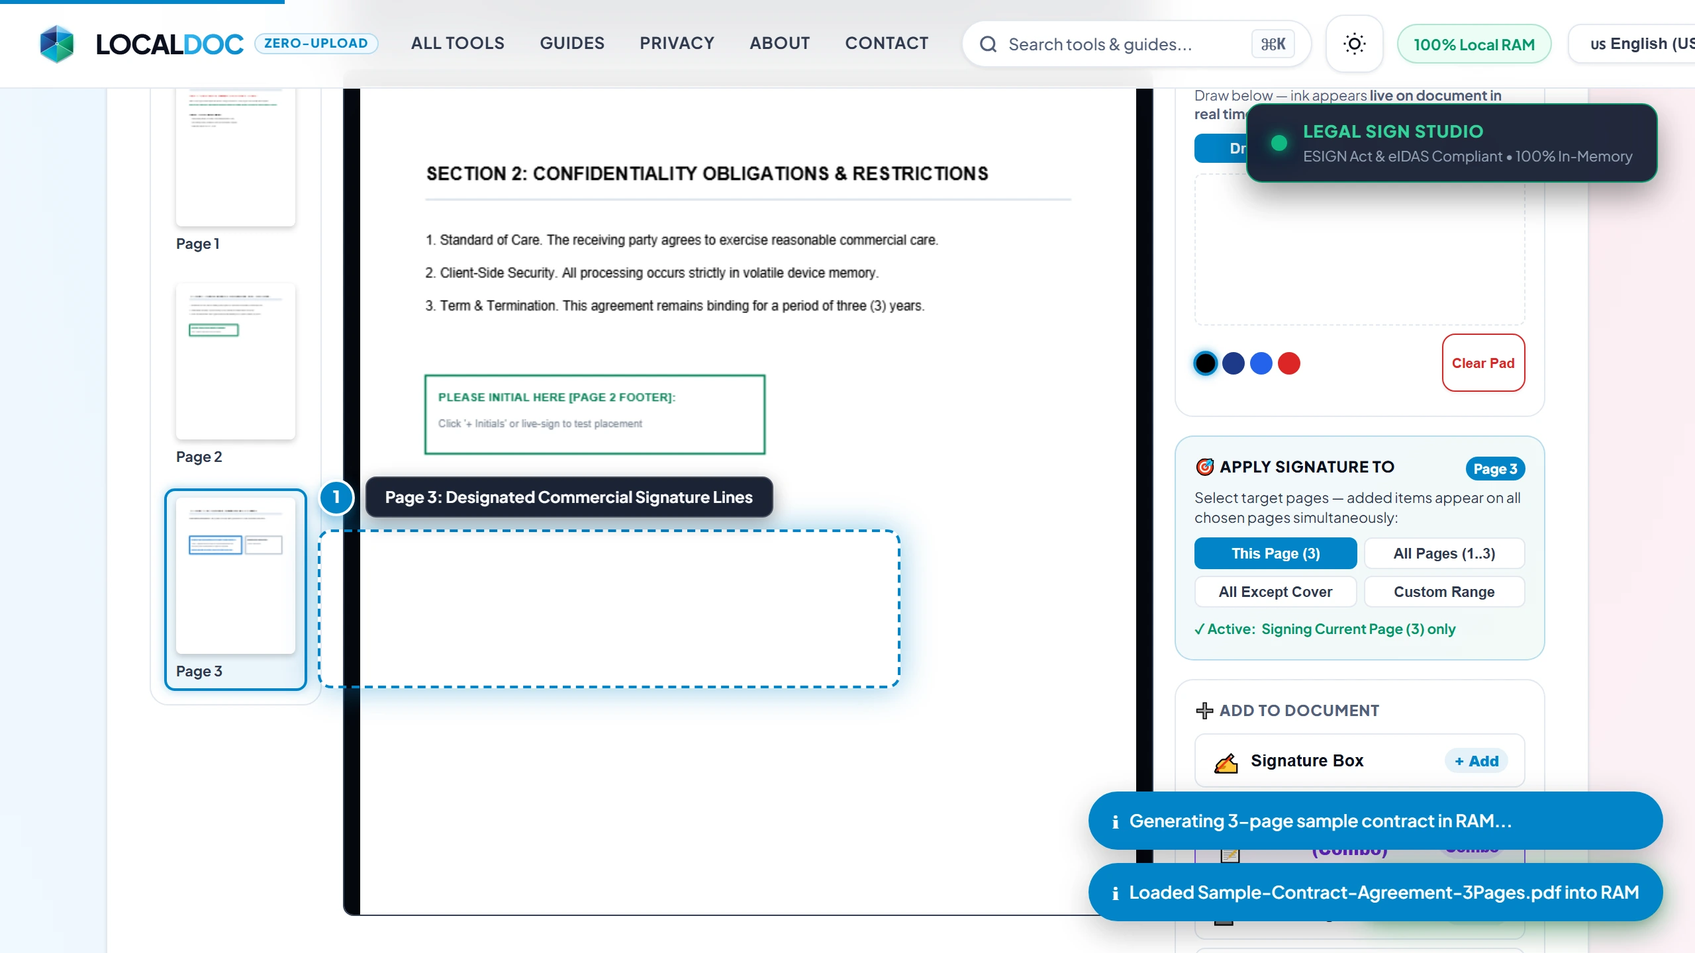
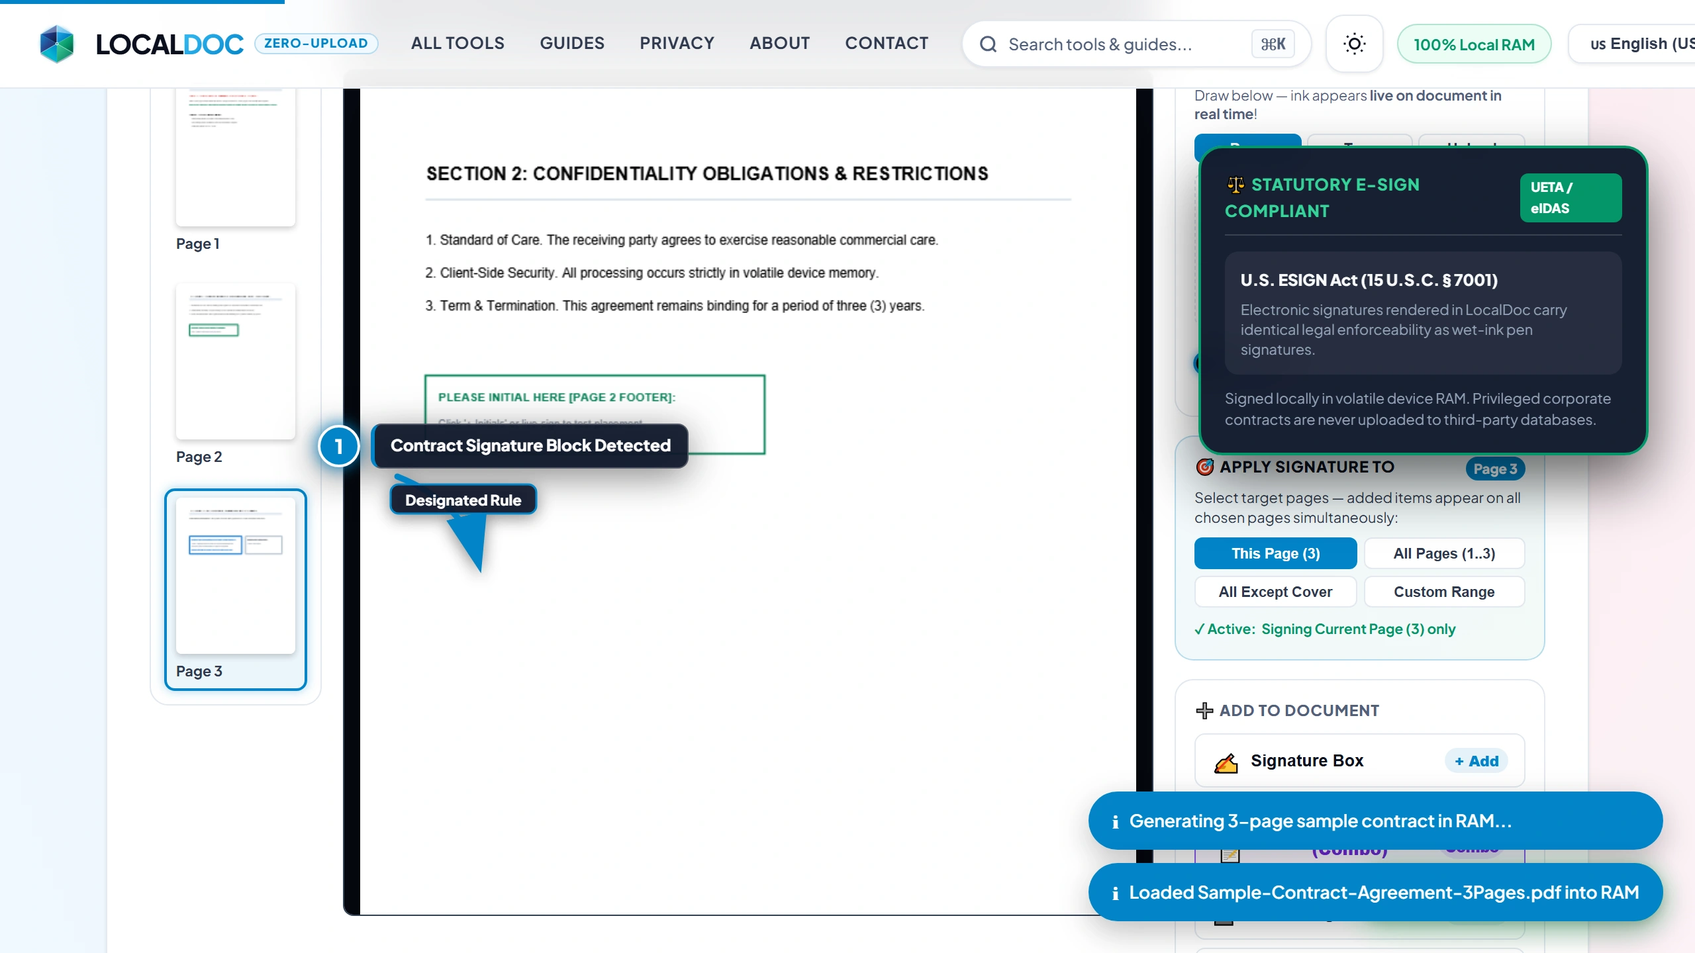
feat(guides): complete overhaul of edit and sign pdf guides with embedded vector arrows, picture-in-picture insets, and decoupled blog directory cards

diff --git a/blog/sign-pdf-guide.html b/blog/sign-pdf-guide.html
@@ -511,17 +511,8 @@
           Navigate to the <a href="../pages/sign-pdf.html" style="color:var(--primary); font-weight:700;">Sign PDF Studio</a>. Drag and drop your PDF agreement into the upload zone, or click <em>&ldquo;Select PDF Document&rdquo;</em> to browse files on your device. Your file is parsed page-by-page entirely in your browser&rsquo;s local RAM &mdash; zero bytes are ever uploaded to cloud servers.
         </p>
 
-        <div class="annotated-viewport">
-          <img src="../assets/images/guides/sign-step1-upload.webp" alt="LocalDoc In-Memory Drag and Drop PDF Upload Zone" loading="lazy" width="1280" height="720">
-          
-          <!-- Callout 1: Select Button -->
-          <div class="annotation-box pulse-blue" style="top: 54%; left: 34%; width: 32%; height: 16%;">
-            <span class="annotation-pin pin-blue">1</span>
-            <div class="annotation-tooltip tooltip-bottom">
-              <strong>Select or Drop PDF</strong>
-              <span>100% In-Memory RAM Sandbox &bull; Zero Server Upload</span>
-            </div>
-          </div>
+        <div class="walkthrough-visual-frame" style="position:relative; border-radius:14px; overflow:hidden; border:1px solid var(--line); box-shadow:0 12px 32px rgba(0,0,0,0.12); margin:18px 0;">
+          <img src="../assets/images/guides/sign-step1-upload.webp" alt="Step 1: Open Contract in LocalDoc Client RAM Sandbox with Statutory E-Sign Compliance Certificate" loading="lazy" width="1280" height="720" style="display:block; width:100%; height:auto;">
         </div>
 
         <div class="walkthrough-step-tip">
@@ -544,26 +535,8 @@
           Choose your signing method between <strong>Draw Freehand</strong> (smooth Bézier splines using stylus, mouse, or touch gesture), <strong>Type Cursive</strong> (converts your typed name into elegant legal script), or <strong>Upload Image</strong> (import a photo of your paper signature with automatic white-paper background removal). Select your preferred ink tone &mdash; <strong>Classic Navy Blue</strong> is strongly recommended for legal contracts &mdash; and dial in your stroke weight with the precision slider bar.
         </p>
 
-        <div class="annotated-viewport">
-          <img src="../assets/images/guides/sign-step2-signature-pad.webp" alt="Signature Creation Studio with Draw, Type, and Upload Tabs, Ink Palette, and Thickness Slider" loading="lazy" width="1280" height="720">
-          
-          <!-- Callout 1: Navy Blue Swatch -->
-          <div class="annotation-box pulse-red" style="top: 80%; left: 11%; width: 14%; height: 12%;">
-            <span class="annotation-pin pin-red">1</span>
-            <div class="annotation-tooltip tooltip-top">
-              <strong>Select Classic Navy Blue</strong>
-              <span>Proves non-photocopied original execution in court</span>
-            </div>
-          </div>
-
-          <!-- Callout 2: Thickness Slider -->
-          <div class="annotation-box pulse-blue" style="top: 60%; left: 6%; width: 44%; height: 16%;">
-            <span class="annotation-pin pin-blue">2</span>
-            <div class="annotation-tooltip tooltip-top">
-              <strong>Calibrate 3.0 px Pen Weight</strong>
-              <span>Matches natural optical density of ballpoint pens</span>
-            </div>
-          </div>
+        <div class="walkthrough-visual-frame" style="position:relative; border-radius:14px; overflow:hidden; border:1px solid var(--line); box-shadow:0 12px 32px rgba(0,0,0,0.12); margin:18px 0;">
+          <img src="../assets/images/guides/sign-step2-signature-pad.webp" alt="Step 2: 3-Mode Signature Creation Studio with Bézier Curve Smoothing and Paper Background Removal Inset" loading="lazy" width="1280" height="720" style="display:block; width:100%; height:auto;">
         </div>
 
         <div class="walkthrough-step-tip">
@@ -586,17 +559,8 @@
           Click and drag the signature bounding box across the live document viewport to position it exactly over the contract&rsquo;s designated signature line. Use the interactive <strong><code>+</code></strong> and <strong><code>&minus;</code></strong> corner scaling handles to scale the signature proportionally without any awkward stretching.
         </p>
 
-        <div class="annotated-viewport">
-          <img src="../assets/images/guides/sign-step3-drag-position.webp" alt="Live Document Preview with Draggable Signature Bounding Box and Corner Scale Handles" loading="lazy" width="1280" height="720">
-          
-          <!-- Callout 1: Active Bounding Box -->
-          <div class="annotation-box pulse-red" style="top: 55%; left: 19%; width: 25%; height: 18%;">
-            <span class="annotation-pin pin-red">1</span>
-            <div class="annotation-tooltip tooltip-top">
-              <strong>Drag to Signature Line</strong>
-              <span>Smooth 60 FPS positioning with + / &minus; scale handles</span>
-            </div>
-          </div>
+        <div class="walkthrough-visual-frame" style="position:relative; border-radius:14px; overflow:hidden; border:1px solid var(--line); box-shadow:0 12px 32px rgba(0,0,0,0.12); margin:18px 0;">
+          <img src="../assets/images/guides/sign-step3-drag-position.webp" alt="Step 3: Signature Bounding Box Positioning with Micro-Magnifier Baseline Snapping Lens" loading="lazy" width="1280" height="720" style="display:block; width:100%; height:auto;">
         </div>
 
         <div class="walkthrough-step-tip">
@@ -619,35 +583,8 @@
           Click <em>&ldquo;+ Company Stamp&rdquo;</em> in the toolbar to launch the interactive Rubber Stamp Studio. Choose between an authentic <strong>Circular Corporate Seal</strong> (with curved text along the upper and lower perimeter arcs, central star emblem, registration ID, and date) or a <strong>Rectangular Audit Stamp</strong> in official legal ink colors (Navy Blue, Corporate Red, Emerald Green, Slate Black, Royal Purple). Click <em>&ldquo;+ Add Date Seal&rdquo;</em> to attach a certified execution timestamp (<code>✓ Date: 2026-10-22</code>) alongside your signature.
         </p>
 
-        <div class="annotated-viewport">
-          <img src="../assets/images/guides/sign-step4-date-seal.webp" alt="Contract Signature Block with Draggable Certified Date Stamp, Signatory Title, and Company Corporate Seal" loading="lazy" width="1280" height="720">
-          
-          <!-- Callout 1: Date Stamp -->
-          <div class="annotation-box pulse-emerald" style="top: 58%; left: 59%; width: 23%; height: 14%;">
-            <span class="annotation-pin pin-emerald">1</span>
-            <div class="annotation-tooltip tooltip-top">
-              <strong>Certified Date Stamp</strong>
-              <span>Standard ISO 8601 execution timestamp</span>
-            </div>
-          </div>
-
-          <!-- Callout 2: Signatory Title -->
-          <div class="annotation-box pulse-blue" style="top: 72%; left: 18%; width: 23%; height: 11%;">
-            <span class="annotation-pin pin-blue">2</span>
-            <div class="annotation-tooltip tooltip-bottom">
-              <strong>Signatory Title Text Box</strong>
-              <span>State corporate capacity or printed name</span>
-            </div>
-          </div>
-
-          <!-- Callout 3: Company Rubber Seal -->
-          <div class="annotation-box pulse-red" style="top: 25%; left: 62%; width: 22%; height: 28%;">
-            <span class="annotation-pin pin-red">3</span>
-            <div class="annotation-tooltip tooltip-left">
-              <strong>Company Rubber Stamp</strong>
-              <span>Circular seal or audit stamp in legal ink</span>
-            </div>
-          </div>
+        <div class="walkthrough-visual-frame" style="position:relative; border-radius:14px; overflow:hidden; border:1px solid var(--line); box-shadow:0 12px 32px rgba(0,0,0,0.12); margin:18px 0;">
+          <img src="../assets/images/guides/sign-step4-date-seal.webp" alt="Step 4: Interactive Corporate Rubber Stamp Customizer and Certified Date Stamp with Circular Seal Inset" loading="lazy" width="1280" height="720" style="display:block; width:100%; height:auto;">
         </div>
 
         <div class="walkthrough-step-tip">
@@ -670,17 +607,8 @@
           Click the emerald button <strong>&ldquo;Apply Signature &amp; Download Signed PDF&rdquo;</strong>. LocalDoc&rsquo;s WebAssembly engine compiles your vector splines, date seals, and text overlays directly into the PDF&rsquo;s ISO 32000 content stream, triggering an instant download to your device with zero server queues or watermarks.
         </p>
 
-        <div class="annotated-viewport">
-          <img src="../assets/images/guides/sign-step5-download.webp" alt="3-Step Workflow Indicator and Final Download Success Card" loading="lazy" width="1280" height="720">
-          
-          <!-- Callout 1: Download Button -->
-          <div class="annotation-box pulse-emerald" style="top: 55%; left: 58%; width: 26%; height: 24%;">
-            <span class="annotation-pin pin-emerald">1</span>
-            <div class="annotation-tooltip tooltip-top">
-              <strong>Instant Vector Download</strong>
-              <span>100% In-Memory Compilation &bull; Zero Watermarks</span>
-            </div>
-          </div>
+        <div class="walkthrough-visual-frame" style="position:relative; border-radius:14px; overflow:hidden; border:1px solid var(--line); box-shadow:0 12px 32px rgba(0,0,0,0.12); margin:18px 0;">
+          <img src="../assets/images/guides/sign-step5-download.webp" alt="Step 5: Finalized Contract Download with Digital Audit Trail Certificate Inset" loading="lazy" width="1280" height="720" style="display:block; width:100%; height:auto;">
         </div>
 
         <div class="walkthrough-step-tip">

diff --git a/blog/edit-pdf-text-guide.html b/blog/edit-pdf-text-guide.html
@@ -610,14 +610,8 @@
           <p class="walkthrough-step-desc">
             Open the <a href="../pages/edit-pdf.html">LocalDoc Edit PDF Studio</a>. Drag your contract, lease, or report into the dropzone. The file decodes page-by-page directly into memory and renders at native 100% canvas resolution in 410 milliseconds with zero network transmission.
           </p>
-          <div class="walkthrough-visual-frame">
-            <img src="../assets/images/guides/editpdf-step1-load-document-ram.webp" alt="Load multi-page contract into LocalDoc in-browser PDF editor" width="1280" height="720" loading="lazy">
-            <div class="walkthrough-focus-box pulse-blue" style="top:22%; left:18%; width:64%; height:62%;" aria-hidden="true"></div>
-            <div class="walkthrough-pin" style="top:26%; left:62%;">❶ Select PDF Document</div>
-            <div class="walkthrough-pin" style="top:65%; left:36%;">❷ 16 Lease Pages in RAM</div>
-            <div class="walkthrough-callout" style="bottom:12px; left:18px;">
-              <span>✦ Memory Mapping: 16 lease pages loaded in 410ms with zero network transmission.</span>
-            </div>
+          <div class="walkthrough-visual-frame" style="position:relative; border-radius:14px; overflow:hidden; border:1px solid var(--line); box-shadow:0 12px 32px rgba(0,0,0,0.12); margin:18px 0;">
+            <img src="../assets/images/guides/editpdf-step1-load-document-ram.webp" alt="Step 1: Load Document into In-Browser Canvas Workspace with Zero Cloud Upload Security Shield" width="1280" height="720" loading="lazy" style="display:block; width:100%; height:auto;">
           </div>
         </div>
 
@@ -630,14 +624,8 @@
           <p class="walkthrough-step-desc">
             Select the <strong>Add Text</strong> tool to click and position an editable text box anywhere on the canvas, or click <strong>Whiteout Patch</strong> to mask outdated figures or names with an occlusion path matching the paper background.
           </p>
-          <div class="walkthrough-visual-frame">
-            <img src="../assets/images/guides/editpdf-step2-select-text-whiteout.webp" alt="Select text injection or whiteout occlusion patch tool" width="1280" height="720" loading="lazy">
-            <div class="walkthrough-focus-box pulse-blue" style="top:26%; left:6%; width:26%; height:16%;" aria-hidden="true"></div>
-            <div class="walkthrough-pin" style="top:30%; left:10%;">❶ Add Text Injection</div>
-            <div class="walkthrough-pin" style="top:44%; left:58%;">❷ Whiteout Masking</div>
-            <div class="walkthrough-callout" style="bottom:12px; left:18px;">
-              <span>✦ Spatial Precision: Absolute coordinate placement via HTML5 Canvas vector overlay.</span>
-            </div>
+          <div class="walkthrough-visual-frame" style="position:relative; border-radius:14px; overflow:hidden; border:1px solid var(--line); box-shadow:0 12px 32px rgba(0,0,0,0.12); margin:18px 0;">
+            <img src="../assets/images/guides/editpdf-step2-select-text-whiteout.webp" alt="Step 2: Vector Whiteout Occlusion Patch and In-Place Text Replacement with Before and After Comparison Inset" width="1280" height="720" loading="lazy" style="display:block; width:100%; height:auto;">
           </div>
         </div>
 
@@ -650,14 +638,8 @@
           <p class="walkthrough-step-desc">
             Select font family (Helvetica, Times Roman, or Courier Monospace), point size, and ink color (e.g. <code>#1E293B</code> charcoal) to blend new text indistinguishably into the original document content stream.
           </p>
-          <div class="walkthrough-visual-frame">
-            <img src="../assets/images/guides/editpdf-step3-customize-typography.webp" alt="Match original document typography font family and point size" width="1280" height="720" loading="lazy">
-            <div class="walkthrough-focus-box pulse-amber" style="top:22%; left:6%; width:44%; height:16%;" aria-hidden="true"></div>
-            <div class="walkthrough-pin" style="top:26%; left:12%;">❶ Matched Helvetica 12pt</div>
-            <div class="walkthrough-pin" style="top:44%; left:64%;">❷ SubsetFont Embedding</div>
-            <div class="walkthrough-callout" style="bottom:12px; left:18px;">
-              <span>✦ Font Matching: Lightweight TrueType subsets embedded directly to avoid rendering flaws.</span>
-            </div>
+          <div class="walkthrough-visual-frame" style="position:relative; border-radius:14px; overflow:hidden; border:1px solid var(--line); box-shadow:0 12px 32px rgba(0,0,0,0.12); margin:18px 0;">
+            <img src="../assets/images/guides/editpdf-step3-customize-typography.webp" alt="Step 3: Typography Inspector and TrueType SubsetFont Embedding with 300% Magnified Baseline Grid Inset" width="1280" height="720" loading="lazy" style="display:block; width:100%; height:auto;">
           </div>
         </div>
 
@@ -670,14 +652,8 @@
           <p class="walkthrough-step-desc">
             Choose from 12 pre-styled audit stickers (e.g. <code>APPROVED</code>, <code>CONFIDENTIAL</code>, <code>URGENT</code>), draw single or double-headed directional arrows to call out amendments, or apply semi-transparent clause highlighters to emphasize indemnification terms.
           </p>
-          <div class="walkthrough-visual-frame">
-            <img src="../assets/images/guides/editpdf-step4-stamp-dates-highlights.webp" alt="Insert review stickers, directional arrows and clause highlighters" width="1280" height="720" loading="lazy">
-            <div class="walkthrough-focus-box pulse-emerald" style="top:24%; left:6%; width:44%; height:20%;" aria-hidden="true"></div>
-            <div class="walkthrough-pin" style="top:38%; left:62%;">❶ Review Status Stickers</div>
-            <div class="walkthrough-pin" style="top:74%; left:66%;">❷ Directional Arrows &amp; Highlighters</div>
-            <div class="walkthrough-callout" style="bottom:12px; left:18px;">
-              <span>✦ Visual Review: Stamp audit stickers and draw directional arrows at 60 FPS.</span>
-            </div>
+          <div class="walkthrough-visual-frame" style="position:relative; border-radius:14px; overflow:hidden; border:1px solid var(--line); box-shadow:0 12px 32px rgba(0,0,0,0.12); margin:18px 0;">
+            <img src="../assets/images/guides/editpdf-step4-stamp-dates-highlights.webp" alt="Step 4: Insert 12 Review Status Stickers, Double-Headed Directional Arrows, and Fluorescent Clause Highlighters" width="1280" height="720" loading="lazy" style="display:block; width:100%; height:auto;">
           </div>
         </div>
 
@@ -690,14 +666,8 @@
           <p class="walkthrough-step-desc">
             Optionally trim excess scanner margins using the <strong>Crop Pages</strong> tool (with presets for 5mm, 10mm, 20mm, A4 fit, or custom margins). Click <strong>Save &amp; Export</strong> to compile all vector overlays into an ISO 32000-compliant PDF and trigger an immediate download.
           </p>
-          <div class="walkthrough-visual-frame">
-            <img src="../assets/images/guides/editpdf-step5-export-download-pdf.webp" alt="Download finalized edited PDF document with instant execution metrics" width="1280" height="720" loading="lazy">
-            <div class="walkthrough-focus-box pulse-emerald" style="top:20%; left:22%; width:56%; height:62%;" aria-hidden="true"></div>
-            <div class="walkthrough-pin" style="top:26%; left:62%;">❶ 19 Vector Objects Baked</div>
-            <div class="walkthrough-pin" style="top:64%; left:36%;">❷ Download Edited PDF</div>
-            <div class="walkthrough-callout" style="bottom:12px; left:18px;">
-              <span>✦ Zero Cloud Exposure: Pristine document compiled and downloaded in 410 milliseconds.</span>
-            </div>
+          <div class="walkthrough-visual-frame" style="position:relative; border-radius:14px; overflow:hidden; border:1px solid var(--line); box-shadow:0 12px 32px rgba(0,0,0,0.12); margin:18px 0;">
+            <img src="../assets/images/guides/editpdf-step5-export-download-pdf.webp" alt="Step 5: Lossless /CropBox Coordinate Trimming and Instant PDF Export in 410 Milliseconds" width="1280" height="720" loading="lazy" style="display:block; width:100%; height:auto;">
           </div>
         </div>
       </div>

diff --git a/blog/index.html b/blog/index.html
@@ -378,15 +378,6 @@
         <div style="margin-top:10px; font-size:0.78rem; color:var(--text-muted);">8 min read &bull; Compliance & Legal</div>
       </a>
 
-            <!-- 5b. How to Add Signature to PDF Online Guide -->
-      <a href="sign-pdf-guide.html" class="tool-card" data-cat="security" data-keywords="add signature add signature to pdf sign pdf electronically move signature online draw signature certified date stamp esign eidas contracts lease">
-        <img src="../assets/icons/edit-pdf.svg" alt="Add Signature to PDF Guide" class="tool-card-icon" width="40" height="40" loading="lazy" decoding="async">
-        <div class="tool-card-badge" style="background:#059669; color:#FFF;">Digital Signatures</div>
-        <h3>How to Add Signature to PDF: Draw, Place &amp; Move Signatures</h3>
-        <p>Draw or type signatures, preview document pages, drag and move your signature to any exact spot, and embed certified date stamps in browser RAM.</p>
-        <div style="margin-top:10px; font-size:0.78rem; color:var(--text-muted);">8 min read &bull; Digital Signatures &amp; Legal</div>
-      </a>
-
       <!-- 6. Paperless Office Productivity -->
       <a href="paperless-office-productivity-guide.html" class="tool-card" data-cat="organize" data-keywords="paperless office productivity workflow digitization invoices receipts student study notes archiving">
         <img src="../assets/icons/compress-pdf.svg" alt="Paperless Office Guide" class="tool-card-icon" width="40" height="40" loading="lazy" decoding="async">
@@ -522,13 +513,22 @@
         <div style="margin-top:10px; font-size:0.78rem; color:var(--text-muted);">4 min read &bull; Page Tools</div>
       </a>
 
-      <!-- 21. Edit PDF Text -->
-      <a href="edit-pdf-text-guide.html" class="tool-card" data-cat="organize" data-keywords="edit pdf add text sign draw annotate fill form modify pdf">
-        <img src="../assets/icons/edit-pdf.svg" alt="Edit PDF Guide" class="tool-card-icon" width="40" height="40" loading="lazy" decoding="async">
-        <div class="tool-card-badge" style="background:#0284C7; color:#FFF;">Annotations</div>
-        <h3>Edit PDF Text, Add Signatures & Draw Freehand</h3>
-        <p>Direct canvas PDF editor: add typography, place checkmarks, draw highlight vectors, and sign forms.</p>
-        <div style="margin-top:10px; font-size:0.78rem; color:var(--text-muted);">6 min read &bull; Form Filling</div>
+      <!-- 21. Edit PDF Studio Master Guide -->
+      <a href="edit-pdf-text-guide.html" class="tool-card" data-cat="organize" data-keywords="edit pdf modify pdf text whiteout annotate pdf crop pdf pages arrows stickers markup">
+        <img src="../assets/icons/edit-pdf.svg" alt="Edit PDF Master Guide" class="tool-card-icon" width="40" height="40" loading="lazy" decoding="async">
+        <div class="tool-card-badge" style="background:#0284C7; color:#FFF;">Annotations &amp; Markup</div>
+        <h3>How to Edit PDF Online: Annotate, Whiteout, Arrows &amp; Crop</h3>
+        <p>Master guide to modifying PDF text with vector whiteout masking, typography matching, directional review arrows, fluorescent highlighters, and lossless page cropping.</p>
+        <div style="margin-top:10px; font-size:0.78rem; color:var(--text-muted);">8 min read &bull; Document Markup</div>
+      </a>
+
+      <!-- 22. Sign PDF Studio Master Guide -->
+      <a href="sign-pdf-guide.html" class="tool-card" data-cat="security" data-keywords="sign pdf esign pdf electronic signature company stamp corporate seal rubber stamp certified date contract">
+        <img src="../assets/icons/sign-pdf.svg" alt="Sign PDF Master Guide" class="tool-card-icon" width="40" height="40" loading="lazy" decoding="async">
+        <div class="tool-card-badge" style="background:#059669; color:#FFF;">E-Sign &amp; Corporate Seals</div>
+        <h3>How to Sign PDF Online: E-Sign, Certified Dates &amp; Rubber Stamps</h3>
+        <p>Complete legal guide to drawing Bézier e-signatures, typing cursive handwriting, generating circular company seals, and embedding certified execution date stamps.</p>
+        <div style="margin-top:10px; font-size:0.78rem; color:var(--text-muted);">9 min read &bull; Contract Execution</div>
       </a>
 
       <!-- 25. Watermark PDF -->

diff --git a/sitemap.html b/sitemap.html
@@ -248,8 +248,7 @@
           <li><a href="blog/casio-fx83gtx-fx85gtx-uk-gcse-guide.html" class="footer-link">Casio fx-83GTX &amp; fx-85GTX UK Student Guide: Keypad Buttons, GCSE Exam Secrets &amp; Cheat Sheet</a></li>
           <li><a href="blog/cnic-photo-maker-guide.html" class="footer-link">Official CNIC Card Size (Inches, MM &amp; Pixels) + 2-in-1 A4 Photocopy Guide</a></li>
           <li><a href="blog/compress-pdf-guide.html" class="footer-link">How to Compress PDF Files Without Losing Text Quality (Client-Side Benchmark Guide)</a></li>
-          <li><a href="blog/document-security-redaction-best-practices.html" class="footer-link">PDF Redaction & Data Sanitization: Why Black Boxes Fail & How to Redact Properly</a></li>
-          <li><a href="blog/edit-pdf-text-guide.html" class="footer-link">How to Edit PDF Text, Annotate & Add Fillable Form Overlays in Browser RAM</a></li>
+          <li><a href="blog/document-security-redaction-best-practices.html" class="footer-link">PDF Redaction &amp; Data Sanitization: Why Black Boxes Fail &amp; How to Redact Properly</a></li>
           <li><a href="blog/emirates-id-photo-size-specifications-guide.html" class="footer-link">Emirates ID Photo Requirements: Complete UAE ICP Specs &amp; Sizing Guide</a></li>
           <li><a href="blog/excel-to-pdf-guide.html" class="footer-link">How to Convert Multi-Column Excel Spreadsheets to Landscape A4 PDF Reports</a></li>
           <li><a href="blog/fraction-calculator-steps-guide.html" class="footer-link">How to Calculate and Simplify Fractions on a Scientific Calculator: Complete Step-by-Step Guide</a></li>
